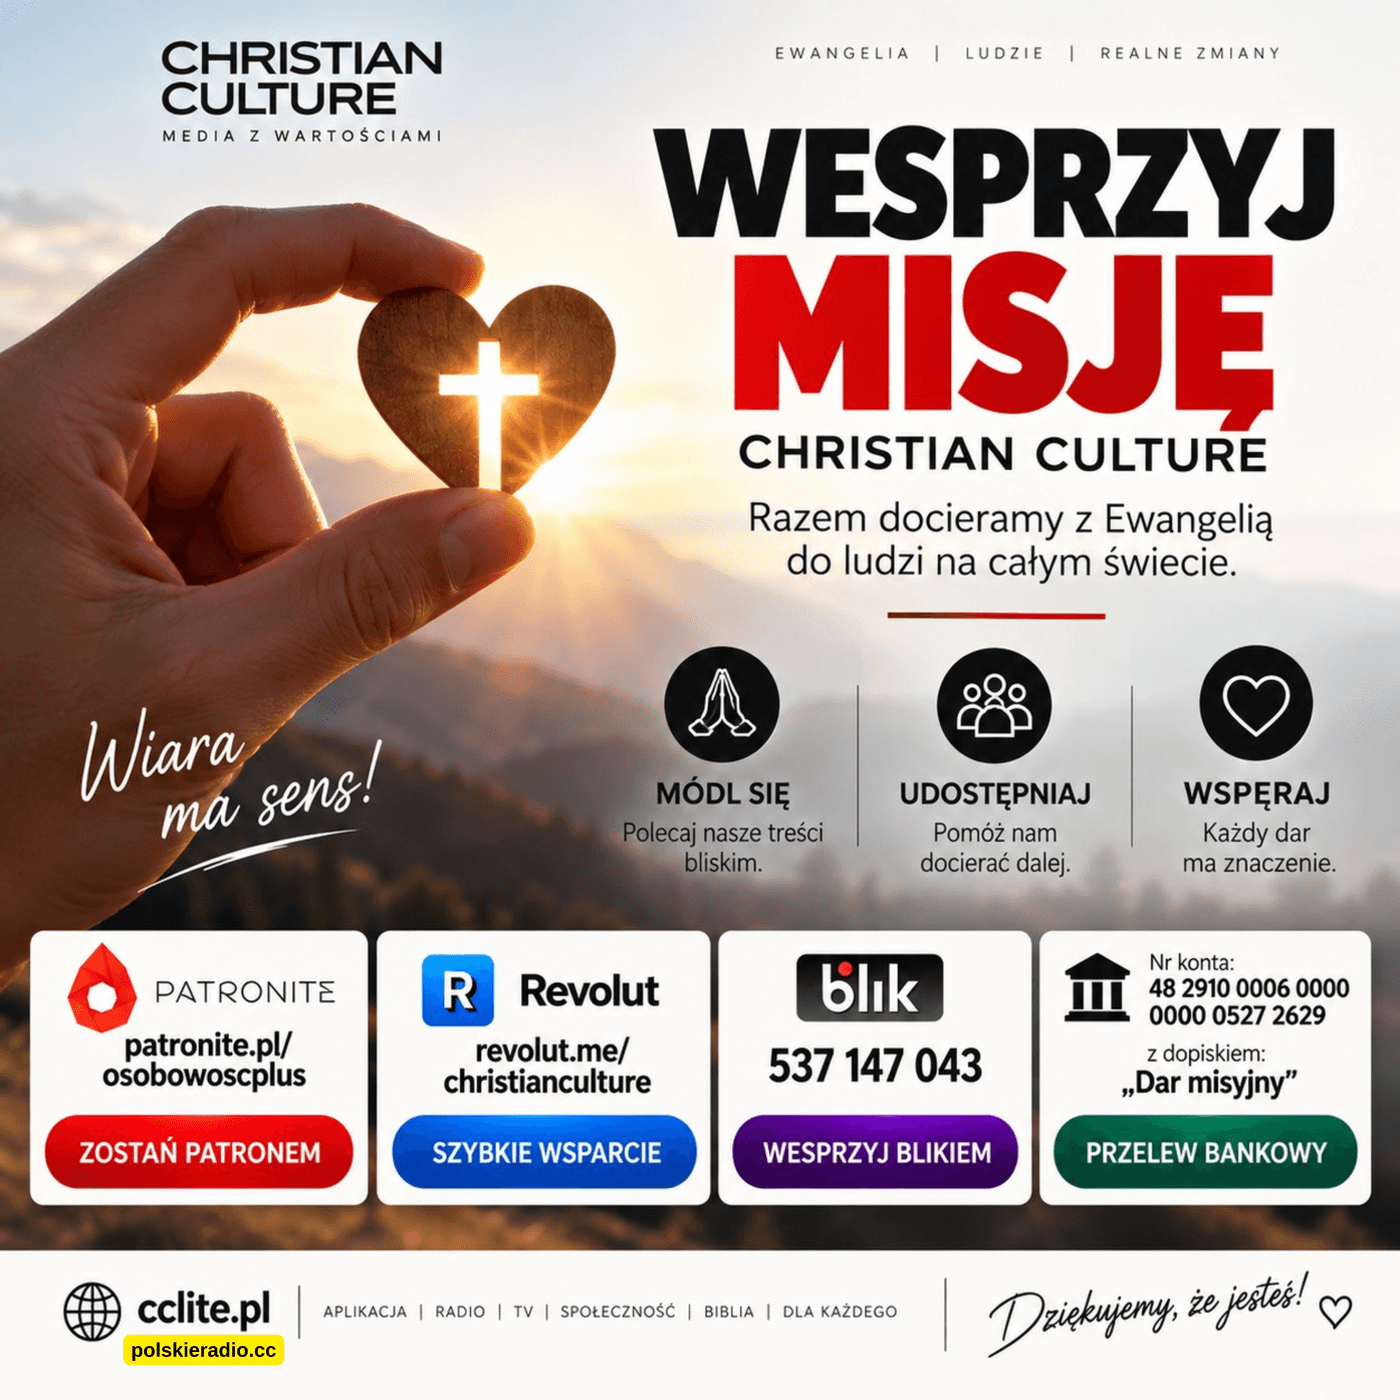
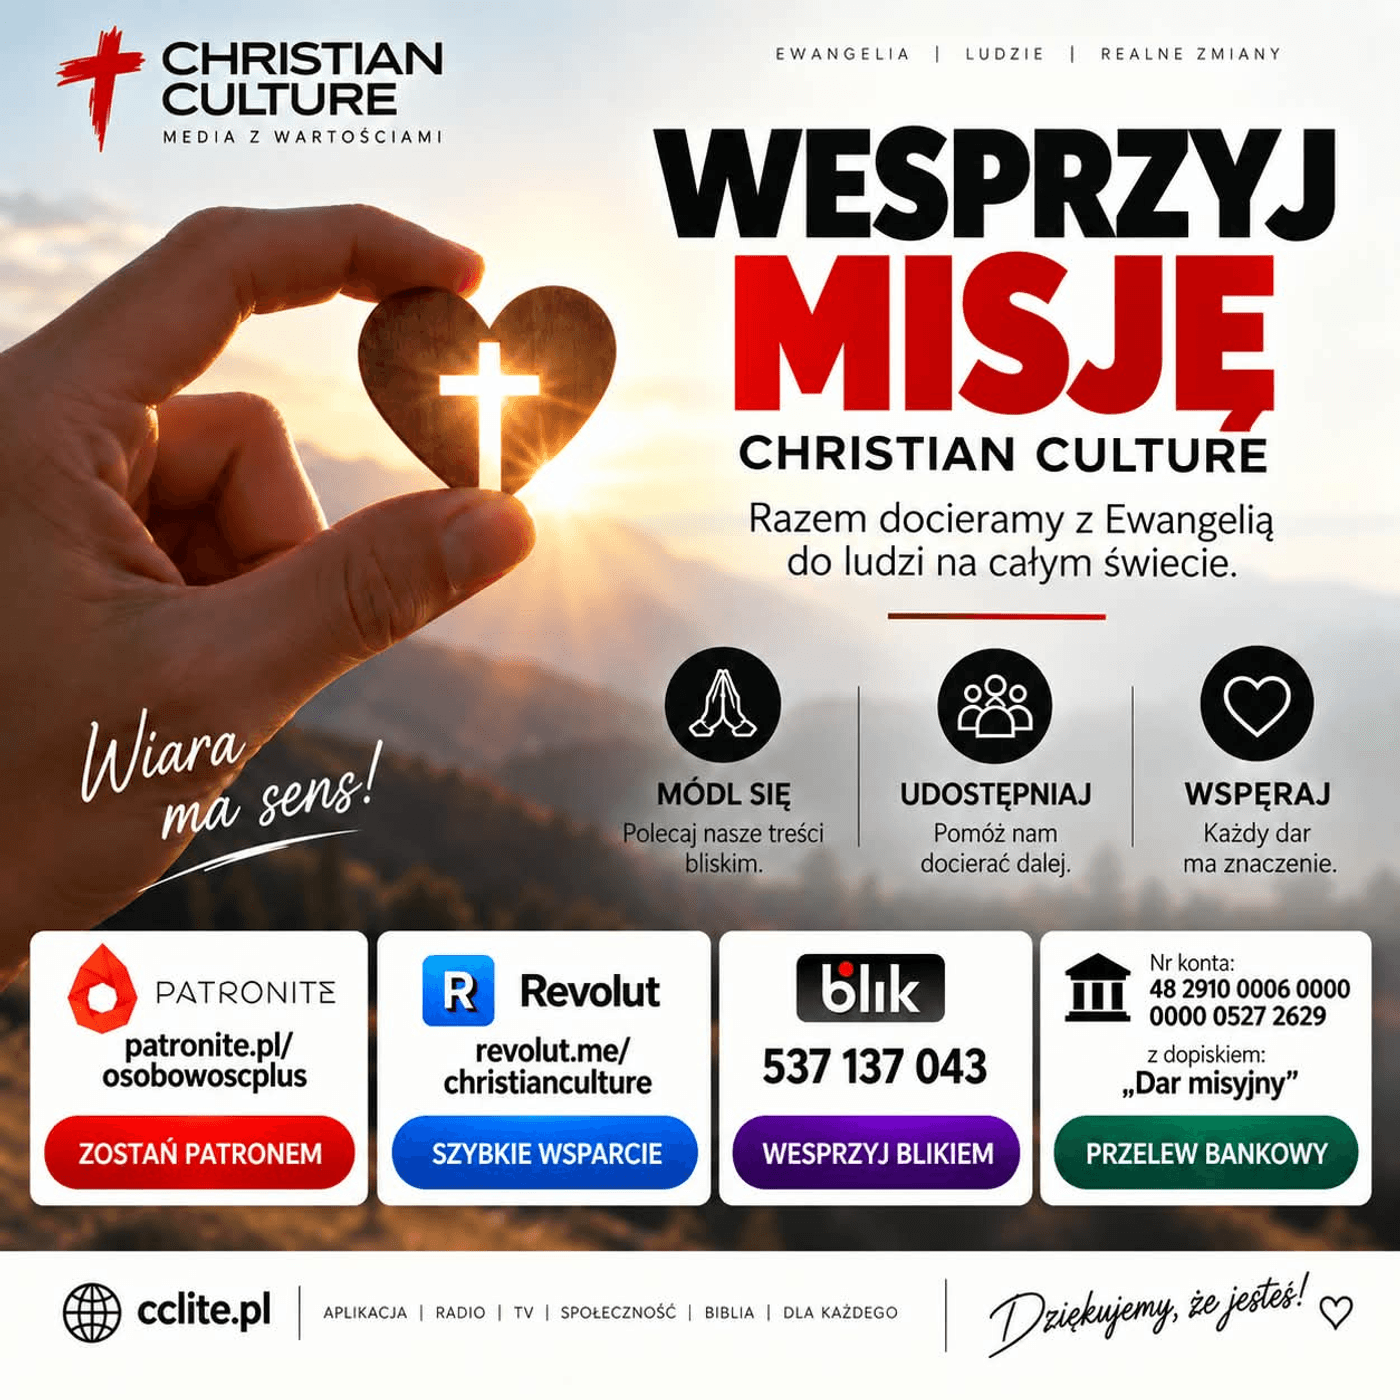
fix(tablica): Aktualizacja grafiki Apelu Misyjnego oraz poprawnego numeru BLIK (537 137 043)

diff --git a/lumina-tablica.html b/lumina-tablica.html
@@ -9259,8 +9259,8 @@
                             </a>
 
                             <!-- BLIK -->
-                            <button type="button" onclick="copyMissionSupportData('537147043', 'Numer telefonu do wpłat BLIK (537 147 043)')" style="min-height:44px; padding:8px 12px; border-radius:14px; background:linear-gradient(135deg, #7c3aed, #6d28d9); color:#fff; font-size:0.80rem; font-weight:800; display:flex; align-items:center; justify-content:center; gap:6px; border:none; cursor:pointer; box-shadow:0 3px 12px rgba(124,58,237,0.35); text-align:center;">
-                                <i class="fa-solid fa-mobile-screen-button"></i> BLIK: 537 147 043
+                            <button type="button" onclick="copyMissionSupportData('537137043', 'Numer telefonu do wpłat BLIK (537 137 043)')" style="min-height:44px; padding:8px 12px; border-radius:14px; background:linear-gradient(135deg, #7c3aed, #6d28d9); color:#fff; font-size:0.80rem; font-weight:800; display:flex; align-items:center; justify-content:center; gap:6px; border:none; cursor:pointer; box-shadow:0 3px 12px rgba(124,58,237,0.35); text-align:center;">
+                                <i class="fa-solid fa-mobile-screen-button"></i> BLIK: 537 137 043
                             </button>
 
                             <!-- Nr konta -->
